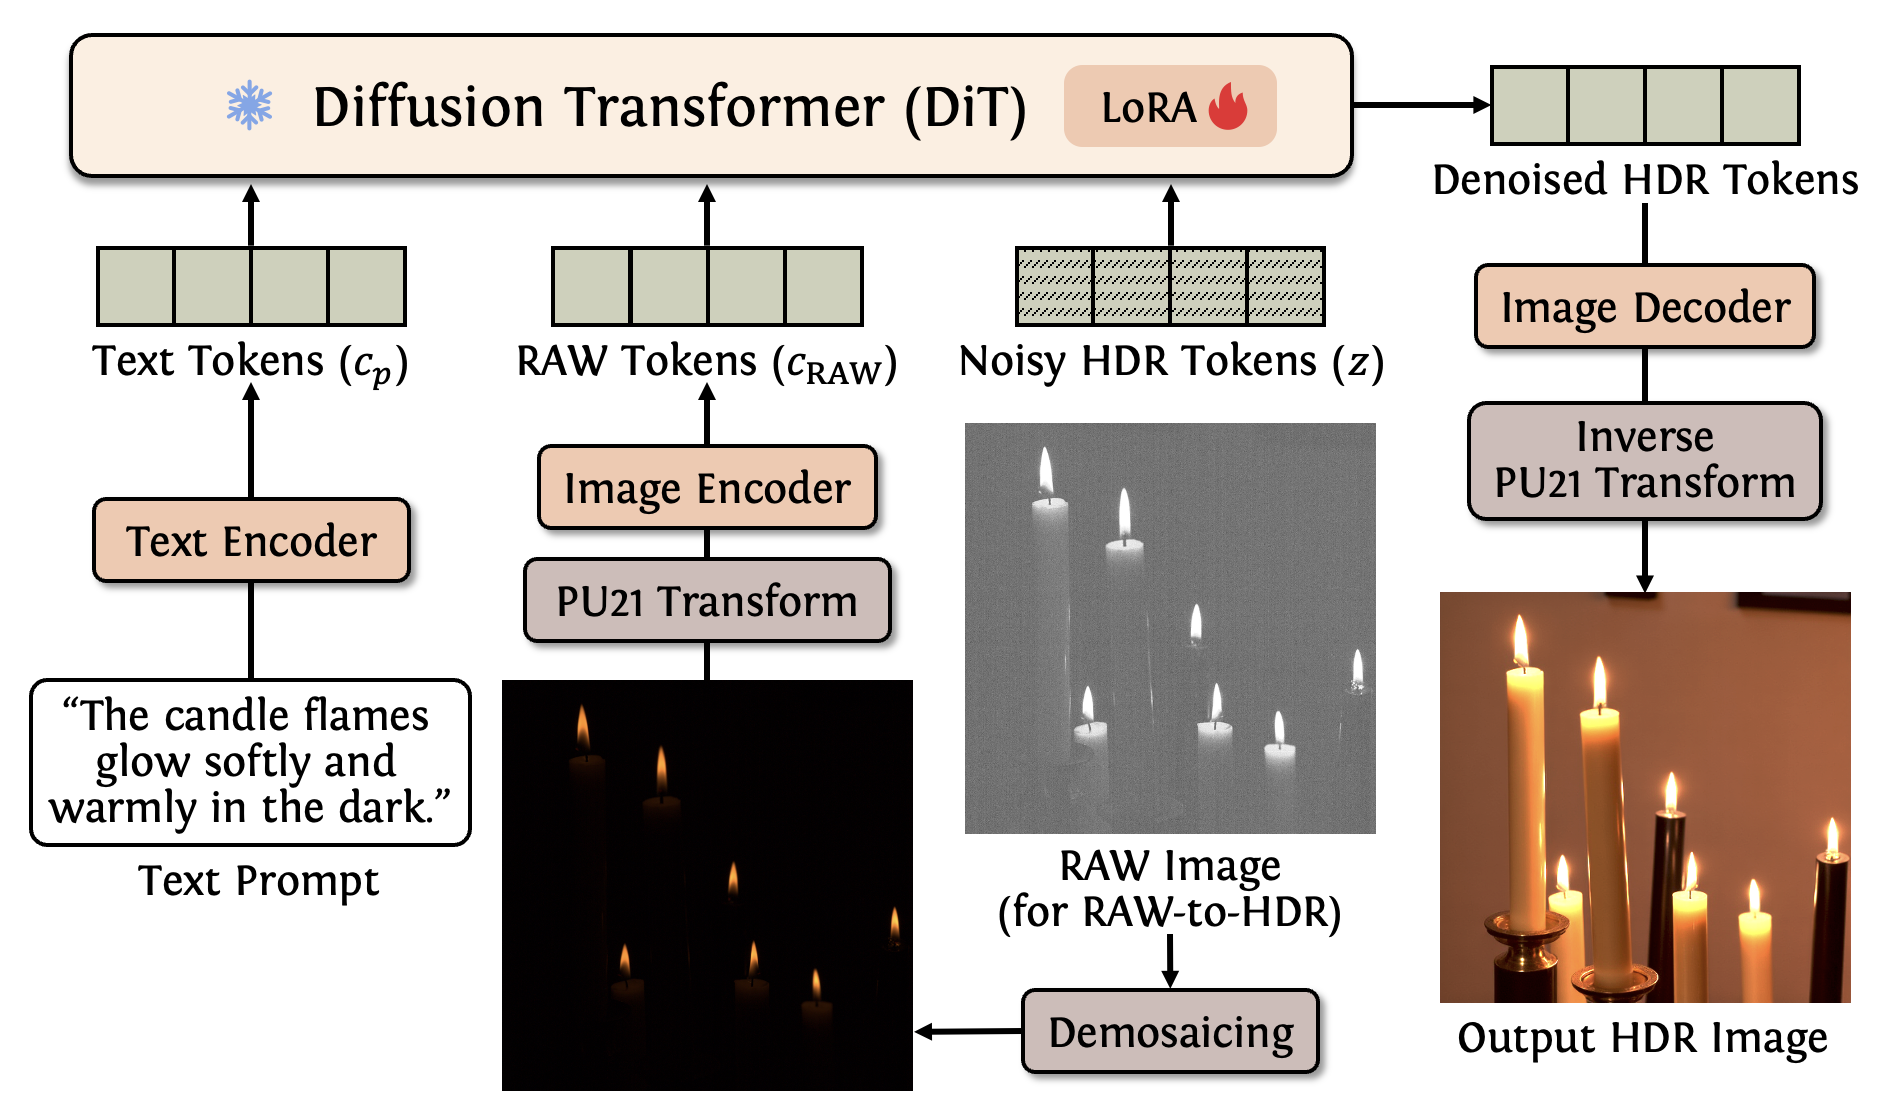
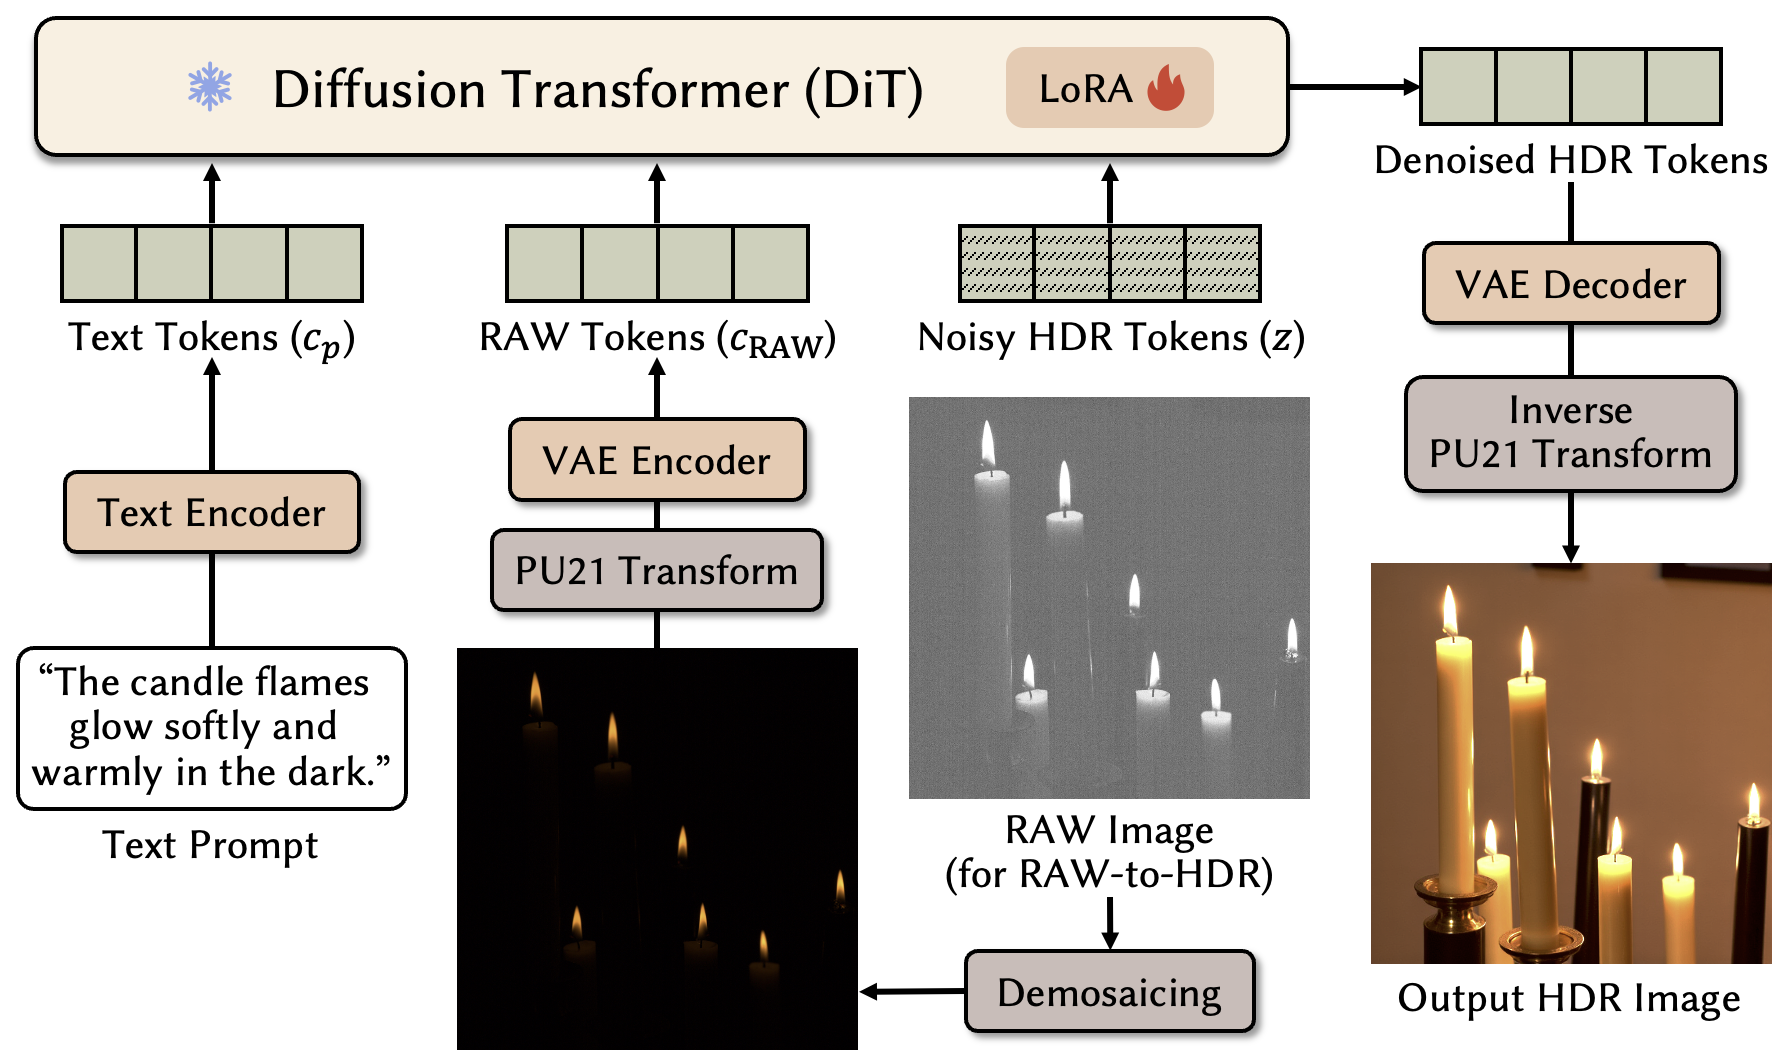
;

diff --git a/index.html b/index.html
@@ -74,13 +74,7 @@ gtag('config', 'G-MEFETL6NEW');
                             </h3>
             
                             <p class="text-justify" style="width: 98%; margin-left: auto; margin-right: auto;">
-                                High dynamic range (HDR) displays and formats are becoming increasingly prevalent, yet state-of-the-art image generators (e.g., Stable Diffusion and FLUX) typically remain limited to low dynamic range (LDR) output due to the lack of large-scale HDR training data.
-                                <br>
-                                In this work, we show that existing pretrained diffusion models can be easily adapted to HDR generation without retraining from scratch. A key challenge is that HDR images are natively represented in linear RGB, whose intensity and color statistics differ substantially from those of sRGB-encoded LDR images. This gap, however, can be effectively bridged by converting HDR inputs into perceptually uniform encodings such as PU21 or PQ, yielding distributions closer to the LDR pretraining domain. Empirically, we find that variational autoencoders (VAEs) trained on LDR data reconstruct PU21-encoded HDR inputs with fidelity comparable to LDR reconstructions, whereas linear RGB inputs cause severe degradations.
-                                <br>
-                                Motivated by this finding, we describe a lightweight adaptation strategy that freezes the VAE and finetunes only the denoiser via low-rank adaptation in a perceptually uniform space. This results in a unified computational method that supports both text-to-HDR synthesis and single-image RAW-to-HDR reconstruction.
-                                <br>
-                                Experiments demonstrate that our perceptually encoded adaptation consistently improves image quality, text–image alignment, effective dynamic range, and HDR fidelity relative to prior exposure-generation methods.
+                                High-dynamic-range (HDR) formats and displays are becoming increasingly prevalent, yet state-of-the-art image generators (e.g., Stable Diffusion and FLUX) typically remain limited to low-dynamic-range (LDR) output due to the lack of large-scale HDR training data. In this work, we show that existing pretrained diffusion models can be easily adapted to HDR generation without retraining from scratch. A key challenge is that HDR images are natively represented in linear RGB, whose intensity and color statistics differ substantially from those of sRGB-encoded LDR images. This gap, however, can be effectively bridged by converting HDR inputs into perceptually uniform encodings (e.g., using PU21 or PQ). Empirically, we find that LDR-pretrained variational autoencoders (VAEs) reconstruct PU21-encoded HDR inputs with fidelity comparable to LDR data, whereas linear RGB inputs cause severe degradations. Motivated by this finding, we describe an efficient adaptation strategy that freezes the VAE and finetunes only the denoiser via low-rank adaptation in a perceptually uniform space. This results in a unified computational method that supports both text-to-HDR synthesis and single-image RAW-to-HDR reconstruction. Experiments demonstrate that our perceptually encoded adaptation consistently improves perceptual fidelity, text–image alignment, and effective dynamic range, relative to previous techniques.
                             </p>
 
                             <h3>
